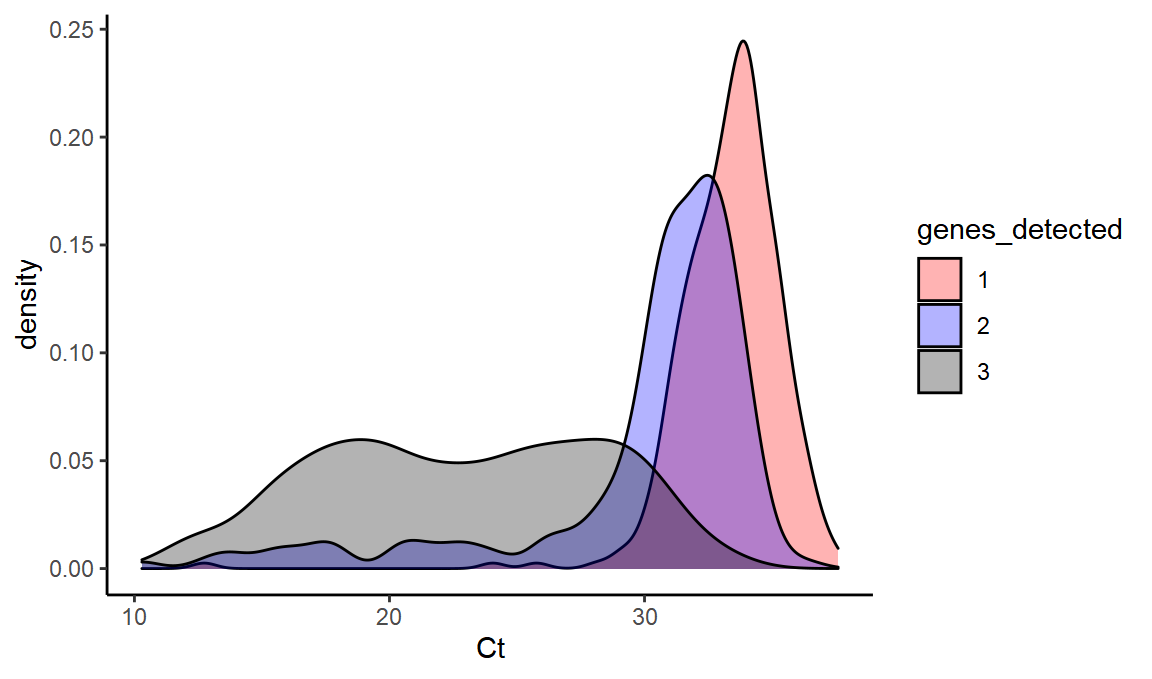
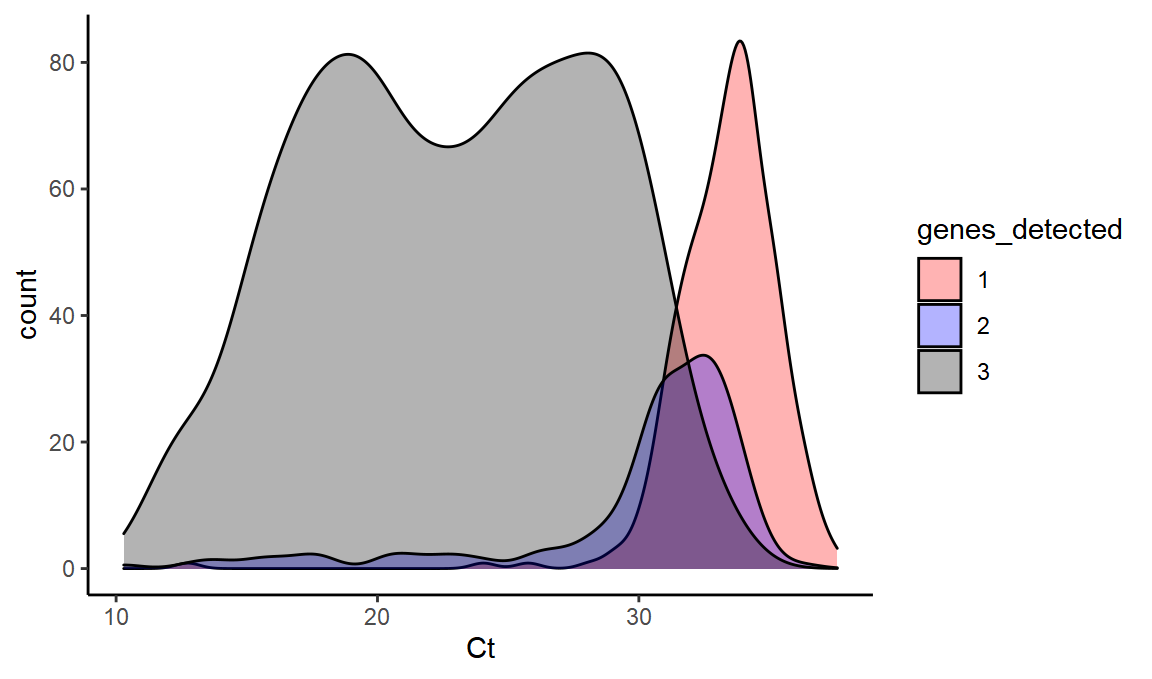
updates

diff --git a/content/post/2021-02-02-ons_extraction/index.md b/content/post/2021-02-02-ons_extraction/index.md
@@ -14,7 +14,7 @@ output:
   hugodown::md_document:
     fig_width: 6 
     fig_asp: 0.59
-rmd_hash: 41599dffa88aa5ca
+rmd_hash: dd8b9f5ffab921e3
 
 ---
 
@@ -203,7 +203,7 @@ And then try to split up the bezier curves into sub commands, like `M` (move to 
 
 </div>
 
-These circles in SVG form as curves, with 4 control points. If we take the average of these we can find the position of the point. One of the points is absolute, from the `M` coordinates, but 3 are from `c` commands, and they only have relative coordinates, so we need to calculate the cumulative sums of these, and then add them to the `M` coordinates. Then we'll average out, and add back the class metadata.
+These circles in SVG form curves, with 4 control points. If we take the average of these we can find the position of the point. One of the points is absolute, from the `M` coordinates, but 3 are from `c` commands, and they only have relative coordinates, so we need to calculate the cumulative sums of these, and then add them to the `M` coordinates. Then we'll average out, and add back the class metadata.
 
 <div class="highlight">
 
@@ -345,7 +345,7 @@ OK, the coordinates look right. At this point we can throw away the old axes and
 
 There's our [dataset](ons_ct_value_genes_detected_and_symptoms.csv).
 
-And here's our graph
+And here's our graph.
 
 <div class="highlight">
 
@@ -357,7 +357,7 @@ And here's our graph
 
 </div>
 
-as compared to ![](ons_scatterplot.svg)
+as compared to: ![](ons_scatterplot.svg)
 
 Now we can see what this data can tell us about Ct value distributions:
 
@@ -365,7 +365,7 @@ What is the distribution of 1, 2, and 3 gene positives at different Ct values?
 
 <div class="highlight">
 
-<pre class='chroma'><code class='language-r' data-lang='r'><span class='nf'>ggplot</span><span class='o'>(</span><span class='nv'>values</span>,<span class='nf'>aes</span><span class='o'>(</span>x<span class='o'>=</span><span class='nv'>Ct</span>,fill<span class='o'>=</span><span class='nv'>genes_detected</span><span class='o'>)</span><span class='o'>)</span> <span class='o'>+</span>
+<pre class='chroma'><code class='language-r' data-lang='r'><span class='nf'>ggplot</span><span class='o'>(</span><span class='nv'>values</span>,<span class='nf'>aes</span><span class='o'>(</span>x<span class='o'>=</span><span class='nv'>Ct</span>,fill<span class='o'>=</span><span class='nv'>genes_detected</span>,y<span class='o'>=</span><span class='nv'>..count..</span><span class='o'>)</span><span class='o'>)</span> <span class='o'>+</span>
   <span class='nf'>scale_fill_manual</span><span class='o'>(</span>values <span class='o'>=</span> <span class='nf'><a href='https://rdrr.io/r/base/c.html'>c</a></span><span class='o'>(</span><span class='s'>"red"</span>, <span class='s'>"blue"</span>, <span class='s'>"black"</span><span class='o'>)</span><span class='o'>)</span> <span class='o'>+</span> <span class='nf'>geom_density</span><span class='o'>(</span>alpha<span class='o'>=</span><span class='m'>0.3</span><span class='o'>)</span>
 
 </code></pre>
@@ -378,7 +378,7 @@ What is the distribution of Ct values with and without symptoms?
 <div class="highlight">
 
 <pre class='chroma'><code class='language-r' data-lang='r'>
-<span class='nf'>ggplot</span><span class='o'>(</span><span class='nv'>values</span>,<span class='nf'>aes</span><span class='o'>(</span>x<span class='o'>=</span><span class='nv'>Ct</span>,fill<span class='o'>=</span><span class='nv'>symptoms</span><span class='o'>)</span><span class='o'>)</span> <span class='o'>+</span> <span class='nf'>geom_density</span><span class='o'>(</span>alpha<span class='o'>=</span><span class='m'>0.3</span><span class='o'>)</span>
+<span class='nf'>ggplot</span><span class='o'>(</span><span class='nv'>values</span>,<span class='nf'>aes</span><span class='o'>(</span>x<span class='o'>=</span><span class='nv'>Ct</span>,fill<span class='o'>=</span><span class='nv'>symptoms</span>,y<span class='o'>=</span><span class='nv'>..count..</span><span class='o'>)</span><span class='o'>)</span> <span class='o'>+</span> <span class='nf'>geom_density</span><span class='o'>(</span>alpha<span class='o'>=</span><span class='m'>0.3</span><span class='o'>)</span>
 
 </code></pre>
 <img src="figs/unnamed-chunk-18-1.png" width="700px" style="display: block; margin: auto;" />
@@ -405,7 +405,7 @@ Crucially from the point of view of assessing B.1.1.7 proportions, we can calcul
 
 <div class="highlight">
 
-<pre class='chroma'><code class='language-r' data-lang='r'><span class='nf'>ggplot</span><span class='o'>(</span><span class='nv'>values</span>,<span class='nf'>aes</span><span class='o'>(</span>x<span class='o'>=</span><span class='nv'>Ct</span>,fill<span class='o'>=</span><span class='nv'>genes_detected</span><span class='o'>)</span><span class='o'>)</span> <span class='o'>+</span>
+<pre class='chroma'><code class='language-r' data-lang='r'><span class='nf'>ggplot</span><span class='o'>(</span><span class='nv'>values</span>,<span class='nf'>aes</span><span class='o'>(</span>x<span class='o'>=</span><span class='nv'>Ct</span>,fill<span class='o'>=</span><span class='nv'>genes_detected</span>,y<span class='o'>=</span><span class='nv'>..count..</span><span class='o'>)</span><span class='o'>)</span> <span class='o'>+</span>
   <span class='nf'>scale_fill_manual</span><span class='o'>(</span>values <span class='o'>=</span> <span class='nf'><a href='https://rdrr.io/r/base/c.html'>c</a></span><span class='o'>(</span><span class='s'>"red"</span>, <span class='s'>"blue"</span>, <span class='s'>"black"</span><span class='o'>)</span><span class='o'>)</span> <span class='o'>+</span> <span class='nf'>geom_density</span><span class='o'>(</span>alpha<span class='o'>=</span><span class='m'>0.5</span>,position<span class='o'>=</span><span class='s'>"stack"</span><span class='o'>)</span>
 
 </code></pre>
@@ -413,12 +413,14 @@ Crucially from the point of view of assessing B.1.1.7 proportions, we can calcul
 
 </div>
 
-And we can even simulate B.1.1.7 by artificially dropping out one gene
+And we can even simulate what B.1.1.7 would look like under these conditions. We know that it is very rare to see the `S` positive unless `OR` and `N` are both also positive. So essentially B.1.1.7 SGTF would just turn `3` into `2` here.
 
 <div class="highlight">
 
-<pre class='chroma'><code class='language-r' data-lang='r'><span class='nv'>simul_b117</span> <span class='o'>=</span> <span class='nv'>values</span> <span class='o'>%&gt;%</span> <span class='nf'>mutate</span><span class='o'>(</span>genes_detected<span class='o'>=</span><span class='nf'><a href='https://rdrr.io/r/base/character.html'>as.character</a></span><span class='o'>(</span><span class='nf'><a href='https://rdrr.io/r/base/numeric.html'>as.numeric</a></span><span class='o'>(</span><span class='nf'><a href='https://rdrr.io/r/base/character.html'>as.character</a></span><span class='o'>(</span><span class='nv'>genes_detected</span><span class='o'>)</span><span class='o'>)</span><span class='o'>-</span><span class='m'>1</span><span class='o'>)</span><span class='o'>)</span> <span class='o'>%&gt;%</span> <span class='nf'><a href='https://rdrr.io/r/stats/filter.html'>filter</a></span><span class='o'>(</span><span class='nv'>genes_detected</span><span class='o'>&gt;</span><span class='m'>0</span><span class='o'>)</span>
-<span class='nf'>ggplot</span><span class='o'>(</span><span class='nv'>simul_b117</span>,<span class='nf'>aes</span><span class='o'>(</span>x<span class='o'>=</span><span class='nv'>Ct</span>,fill<span class='o'>=</span><span class='nv'>genes_detected</span><span class='o'>)</span><span class='o'>)</span> <span class='o'>+</span>
+<pre class='chroma'><code class='language-r' data-lang='r'><span class='nv'>simul_b117</span> <span class='o'>=</span> <span class='nv'>values</span> <span class='o'>%&gt;%</span> <span class='nf'>mutate</span><span class='o'>(</span>genes_detected<span class='o'>=</span><span class='nf'><a href='https://rdrr.io/r/base/ifelse.html'>ifelse</a></span><span class='o'>(</span><span class='nv'>genes_detected</span><span class='o'>==</span><span class='s'>"3"</span>,<span class='s'>"2"</span>,<span class='nv'>genes_detected</span><span class='o'>)</span><span class='o'>)</span> <span class='o'>%&gt;%</span> <span class='nf'><a href='https://rdrr.io/r/stats/filter.html'>filter</a></span><span class='o'>(</span><span class='nv'>genes_detected</span><span class='o'>&gt;</span><span class='m'>0</span><span class='o'>)</span>
+
+
+<span class='nf'>ggplot</span><span class='o'>(</span><span class='nv'>simul_b117</span>,<span class='nf'>aes</span><span class='o'>(</span>x<span class='o'>=</span><span class='nv'>Ct</span>,fill<span class='o'>=</span><span class='nv'>genes_detected</span>,y<span class='o'>=</span><span class='nv'>..count..</span><span class='o'>)</span><span class='o'>)</span> <span class='o'>+</span>
   <span class='nf'>scale_fill_manual</span><span class='o'>(</span>values <span class='o'>=</span> <span class='nf'><a href='https://rdrr.io/r/base/c.html'>c</a></span><span class='o'>(</span><span class='s'>"red"</span>, <span class='s'>"blue"</span>, <span class='s'>"black"</span><span class='o'>)</span><span class='o'>)</span> <span class='o'>+</span> <span class='nf'>geom_density</span><span class='o'>(</span>alpha<span class='o'>=</span><span class='m'>0.5</span>,position<span class='o'>=</span><span class='s'>"stack"</span><span class='o'>)</span>
 
 </code></pre>
@@ -426,12 +428,16 @@ And we can even simulate B.1.1.7 by artificially dropping out one gene
 
 </div>
 
-The `1` values at low Ct are likely artefactual, coming from `2`s in the original dataset that were due to pre-B.1.1.7 SGTF (or on occasion B.1.17). But ignoring that, we can see that at high Ct we see a lot of the single gene `OR` or `N`.
+We can see that at high Ct, we see a lot of the single gene `OR` or `N`.
 
-With the median Ct value around `31` in recent weeks, it seems unsurprising that we are seeing so many single gene positive samples that were previously called as `not-compatible with the new variant`.
+With the median Ct value around `31` in recent weeks, this can help to explain the presence of single gene positive samples that were previously called as `not-compatible with the new variant`.
+
+<div class="highlight">
+
+</div>
 
 Conclusion
 ----------
 
-We've seen that even when data are presented in a graphical form, we may be able to turn it back into data so that we can re-analyse it to better understand the patterns in data we are seeing today.
+We've been able to regenerate a valuable dataset which can provide insights into the apparent relative decline of B.1.1.7 in the recent report. Hopefully this dataset can provide a useful building block in downstream analyses of Ct, gene dropout, and temporal dynamics.
 
